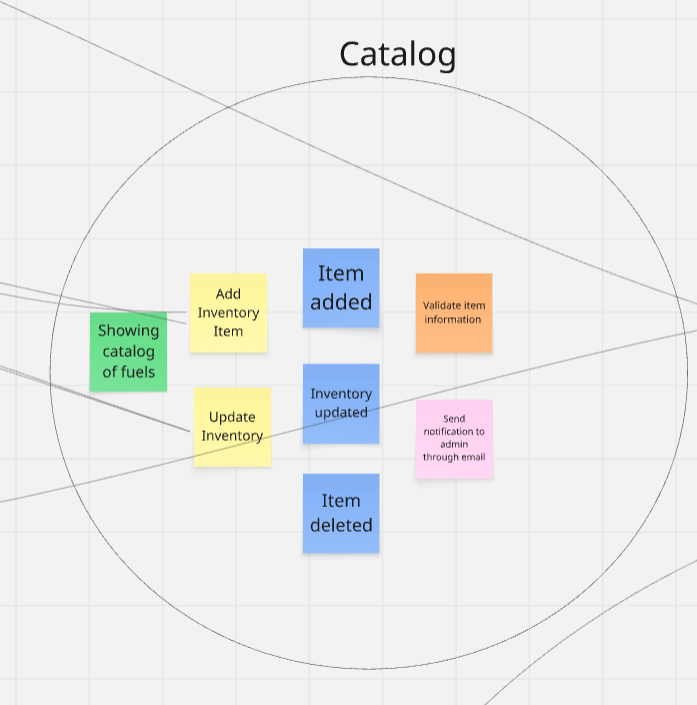
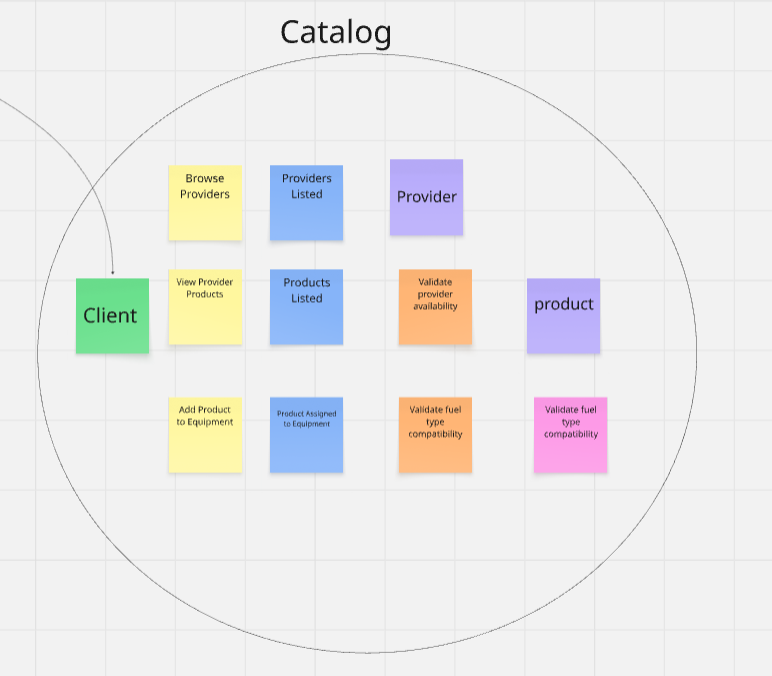
docs(chapter 4):Added new bounded contexts

diff --git a/docs/chapter4.md b/docs/chapter4.md
@@ -1002,7 +1002,7 @@ El desarrollo del proceso del Domain-Driven Design se realizó en la aplicación
 </div>
 
 2. Bounded Context Catalog
-El bounded context Catalog se encarga de la gestión del catálogo de productos e inventario disponible en el sistema. Administra procesos como la creación, actualización y eliminación de ítems, así como la actualización de stock. Su propósito es mantener información precisa y actualizada sobre los recursos disponibles, permitiendo que los proveedores ofrezcan combustible y que los clientes consulten la disponibilidad antes de realizar una solicitud.
+El bounded context Catalog se encarga de gestionar la visualización y consulta de empresas proveedoras y los productos de combustible que ofrecen dentro del sistema. Su propósito es permitir que los solicitantes puedan explorar, comparar y evaluar diferentes opciones de combustible según disponibilidad, características y oferta de cada proveedor, facilitando así la toma de decisiones para seleccionar el producto más adecuado para sus equipos y operaciones.
 
 <div align="center">
   <img src="./../assets/chapter-4/Catalog.png" alt="Bounded context Catalog" width="500"/>
@@ -1045,6 +1045,19 @@ El bounded context Reporting & Analytics se encarga de la generación y visualiz
   <img src="./../assets/chapter-4/Reporting.png" alt="Bounded context Reporting and Analytics" width="500"/>
 </div>
 
+8. Bounded Context Inventory
+El bounded context Inventory se encarga de la gestión de los productos de combustible ofrecidos por los proveedores dentro del sistema. Administra procesos como el registro, actualización y eliminación de productos, así como la modificación de información relacionada con precios, disponibilidad y características del combustible. Su propósito es permitir que los proveedores mantengan actualizado su inventario, asegurando que los solicitantes puedan consultar ofertas vigentes y seleccionar el producto más adecuado para sus necesidades operativas.
+
+<div align="center">
+  <img src="./../assets/chapter-4/Inventory.png" alt="Bounded context Inventory" width="500"/>
+</div>
+
+9. Bounded Context Equipment
+El bounded context Equipment se encarga de la gestión y monitoreo de los equipos pertenecientes a los clientes o solicitantes dentro del sistema. Administra procesos como el registro y actualización de equipos, así como la visualización de su estado operativo y el nivel de combustible disponible en cada uno. Su propósito es permitir a los solicitantes supervisar sus hornos, maquinarias, tanques y otros equipos relacionados, facilitando el control del consumo de combustible y la planificación eficiente de sus operaciones.
+
+<div align="center">
+  <img src="./../assets/chapter-4/Equipment.png" alt="Bounded context Equipment" width="500"/>
+</div>
 
 ### 4.6.2 Software Architecture Context Diagram
 En este nivel se presenta una vista de alto nivel de la arquitectura, donde el foco está en el sistema de software FullTank Platform como una “caja negra” y en las interacciones que mantiene con sus usuarios y con otros sistemas externos.
